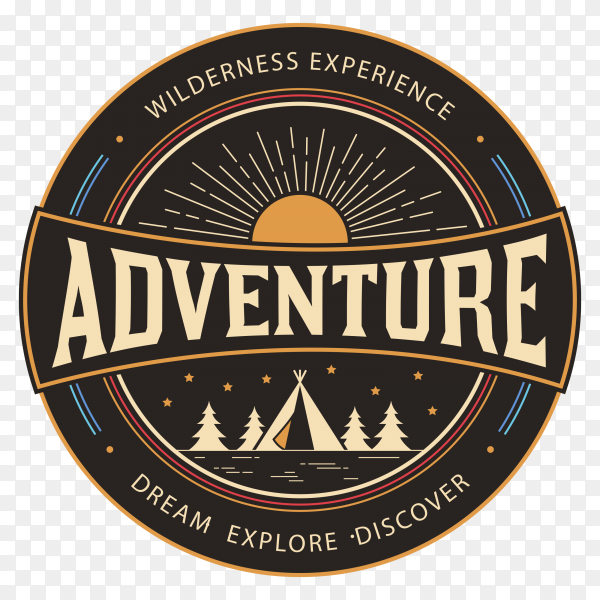
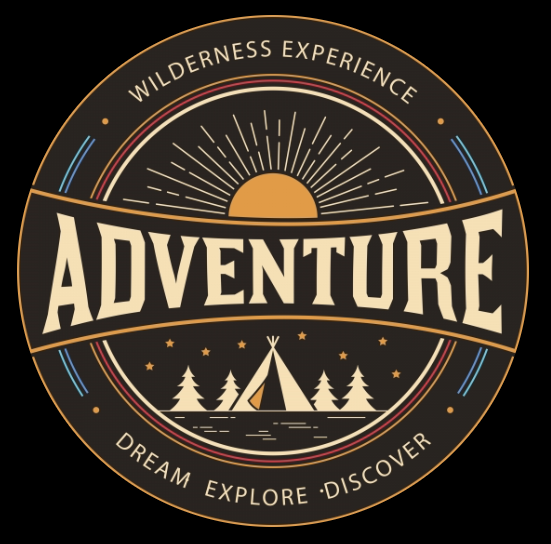
ui updates

diff --git a/src/app/components/about/about.component.html b/src/app/components/about/about.component.html
@@ -25,7 +25,7 @@
                     The underlying API is credited to the <a href="https://www.nps.gov/subjects/developer/api-documentation.htm" target="_blank">National Park Service's Developer Resources.</a>
                    </li>
                 <li class="mb-2">
-                    UI features will be added over time but for now I just wanted to stand-up a basic application following the diagram below. Code will be posted on my <a href="https://github.com/dtabaka/angular-nps-api-demo" target="_blank">GitHub</a>.
+                    UI features & GCP services will be added over time but for now I just wanted to stand-up a basic application following the diagram below. Code will be posted on my <a href="https://github.com/dtabaka/angular-nps-api-demo" target="_blank">GitHub</a>.
                 </li>
               </ul>
         </div>

diff --git a/src/environments/environment.ts b/src/environments/environment.ts
@@ -3,12 +3,12 @@
 export const environment = {
     production: false,
     firebaseConfig: {
-      apiKey: "AIzaSyCRxebCj12lI3bt8ve5GUhkBTbDqpLEHDo",
-      authDomain: "gcp-developer-1.firebaseapp.com",
-      projectId: "gcp-developer-1",
-      storageBucket: "gcp-developer-1.appspot.com",
-      messagingSenderId: "103566812227",
-      appId: "1:103566812227:web:cdb321537c2e4f9412e0f6"
+      apiKey: "",
+      authDomain: "",
+      projectId: "",
+      storageBucket: "",
+      messagingSenderId: "",
+      appId: ""
     },
   };
   

diff --git a/src/app/app.component.html b/src/app/app.component.html
@@ -2,7 +2,7 @@
   <header class="effect1">
 
     <div class="header">
-      <div><img src="../assets/images/adventure.jpg" height="150" width="150"></div>
+      <div><img src="../assets/images/adventure.png" height="200" width="200"></div>
       <div>National Park Service<br/>API Demo</div>
     </div>
     
